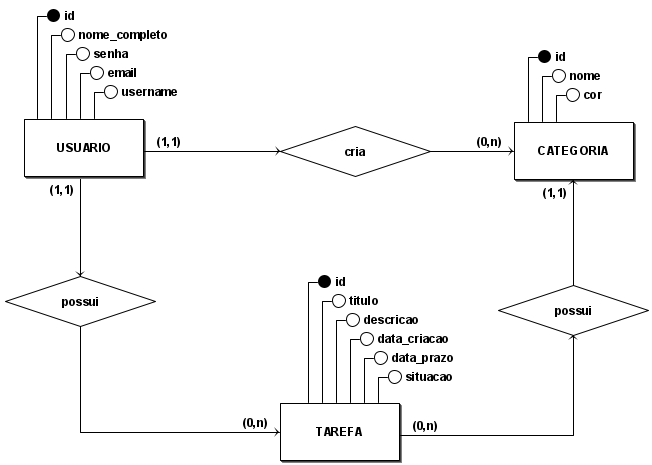
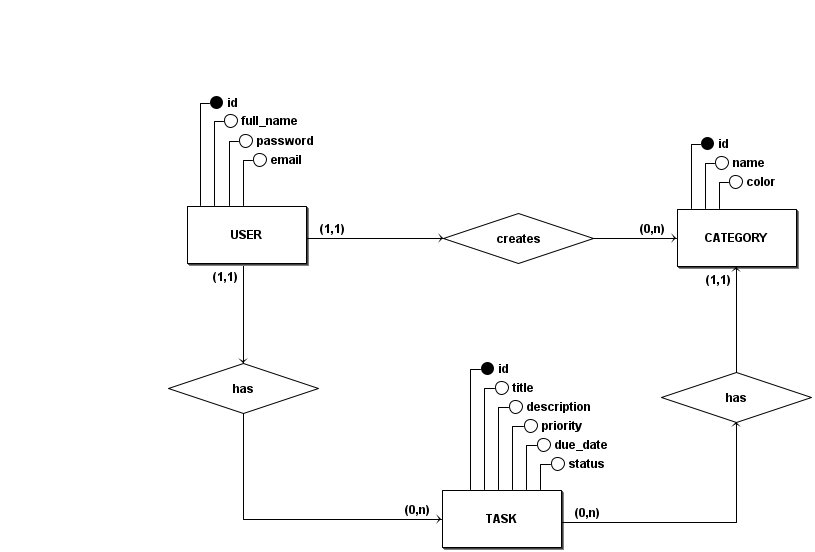
update(docs): atualizando modelagem de dados
- Remoção do atributo created_at em Task (gerado automaticamente pelo ruby on rails)
- Adição do atributo priority em Task
- Correção das FKs de Tasks user_id e category_id - modificando tipo uuid para bigint
- Removação do atributo username em User
- Adição de restrição not null no atributo "color" de Category
- Atualizando imagens do DER e DLD

diff --git a/_docs/modelagem_dados.md b/_docs/modelagem_dados.md
@@ -33,7 +33,6 @@ Armazena as informações de autenticação e perfil.
 | :--- | :--- | :--- | :--- |
 | **id** | `bigint` | **PK** | Identificador único universal. |
 | `full_name` | `varchar(100)` | Not Null | Nome completo para exibição. |
-| `username` | `varchar(60)` | Unique | Nome de usuário único na plataforma. |
 | `email` | `varchar(100)` | Unique | E-mail para contato e login. |
 | `password_digest` | `varchar` | Not Null | Hash da senha criptografada. |
 
@@ -44,7 +43,7 @@ Permite a organização das tarefas por contexto.
 | :--- | :--- | :--- | :--- |
 | **id** | `bigint` | **PK** | Identificador único universal. |
 | `name` | `varchar(50)` | Not Null | Título da categoria (ex: "Trabalho"). |
-| `color` | `varchar(6)` | - | Código Hex da cor (ex: "#FF0000"). |
+| `color` | `varchar(6)` | Not Null | Código Hex da cor (ex: "#FF0000"). |
 | `user_id` | `bigint` | **FK** | Referência ao dono da categoria (`users`). |
 
 ### Tabela: `tasks`
@@ -57,6 +56,6 @@ O registro das atividades a serem realizadas.
 | `description` | `text` | - | Detalhamento da tarefa (sem limite curto). |
 | `status` | `boolean` | Default: False | Situação atual da tarefa (feita/não feita). |
 | `due_date` | `timestamp` | - | Data e hora limite para conclusão. |
-| `created_at` | `timestamp` | - | Data de criação. |
-| `user_id` | `uuid` | **FK** | Referência ao dono da tarefa (`users`). |
-| `category_id` | `uuid` | **FK** | Referência à categoria (`categories`). |
+| `priority` | `integer` | Default: 0 (Low) | Prioridade da tarefa (0 - Low, 1 - Medium, 2 - High) |
+| `user_id` | `bigint` | **FK** | Referência ao dono da tarefa (`users`). |
+| `category_id` | `bigint` | **FK** | Referência à categoria (`categories`). |
